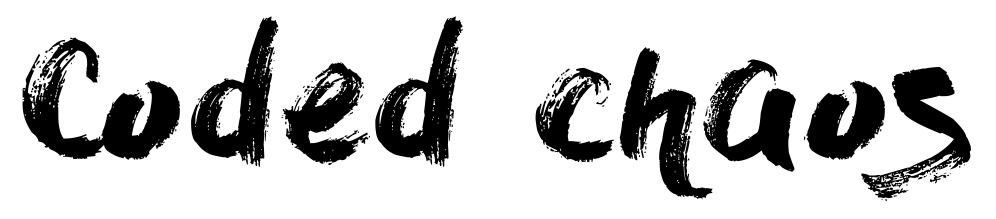
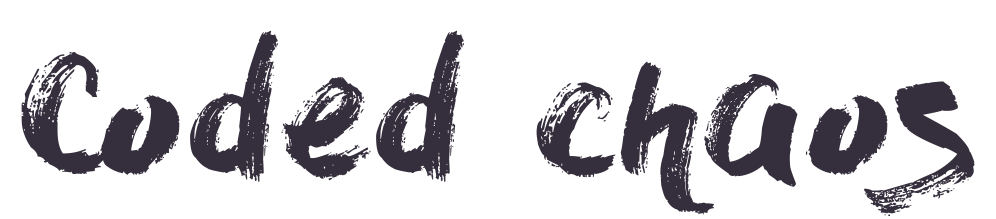
#4

diff --git a/index.html b/index.html
@@ -37,7 +37,8 @@
         </ul>
       </div>
       <div class="middle_section">
-        <p class="coded-chaos">Coded chaos</p>
+        <!-- <p class="coded-chaos">Coded chaos</p> -->
+        <img class="coded-chaos" src="assets/drybrush.png" />
       </div>
       <div class="right_section">
         <ul class="conect-1">

diff --git a/styles/globle.css b/styles/globle.css
@@ -48,9 +48,3 @@ svg {
   width: min(200ch, 100% - 4rem);
   margin-inline: auto;
 }
-@font-face {
-  font-family: "CustomFont";
-  src: url("fonts/dry_brush-webfont.woff2") format("woff2"),
-    url("fonts/dry_brush-webfont.woff") format("woff");
-  /* Add any additional variations here, like font weight or style */
-}

diff --git a/styles/header.css b/styles/header.css
@@ -32,9 +32,8 @@
   padding-top: 1px;
 }
 .coded-chaos {
-  font-family: "Dry Brush", sans-serif;
-  font-size: 45px;
-  color: #262a34;
+  margin-bottom: 10px;
+  max-width: 100%;
 }
 .right_section,
 .left_section {
